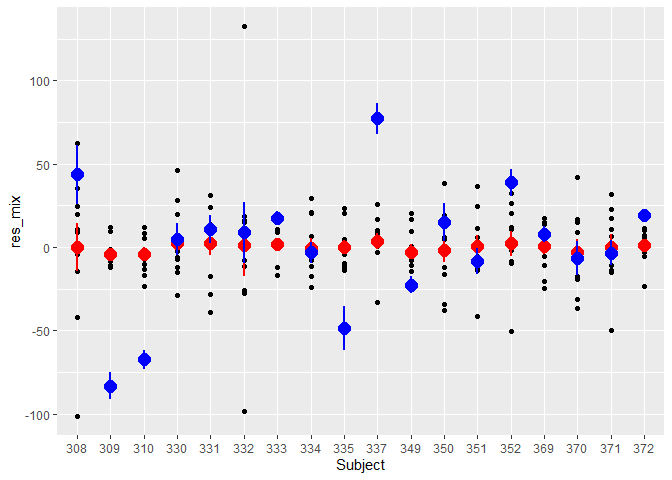
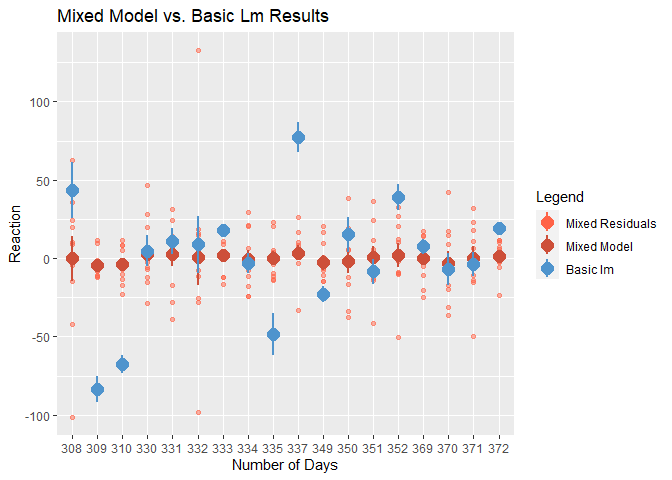
Aes

diff --git a/02 - Notes/04 - Data Understanding/README.md b/02 - Notes/04 - Data Understanding/README.md
@@ -164,13 +164,26 @@ sleepstudy$fit <- predict(linModel)
 
 # Compare results of mixed lm and basic lm
 ggplot(sleepstudy, aes(x=Subject, y=res_mix)) +
-  geom_point() +
+  geom_point(aes(color = 'Mixed Residuals'),
+             alpha = 0.5) +
   
   # Residuals of the new mixed model
-  stat_summary(color="red", size=1) +
+  stat_summary(aes(color = 'Mixed Model'), size=1) +
   
   # Residuals of the old lm model
-  stat_summary(aes(y=res), color="blue", size=1) 
+  stat_summary(aes(y=res, color='Basic lm'), size=1) +
+  
+  scale_color_manual(name='Legend',
+                     breaks=c('Mixed Residuals', 'Mixed Model', 'Basic lm'),
+                     
+                     # Map the colors
+                     values=c('Mixed Residuals' = 'tomato', 
+                              'Mixed Model'     = 'tomato3', 
+                              'Basic lm'        = 'steelblue3')) +
+  
+  labs(title = 'Mixed Model vs. Basic Lm Results',
+       y     = 'Reaction',
+       x     = 'Number of Days')
 ```
 
     No summary function supplied, defaulting to `mean_se()`
